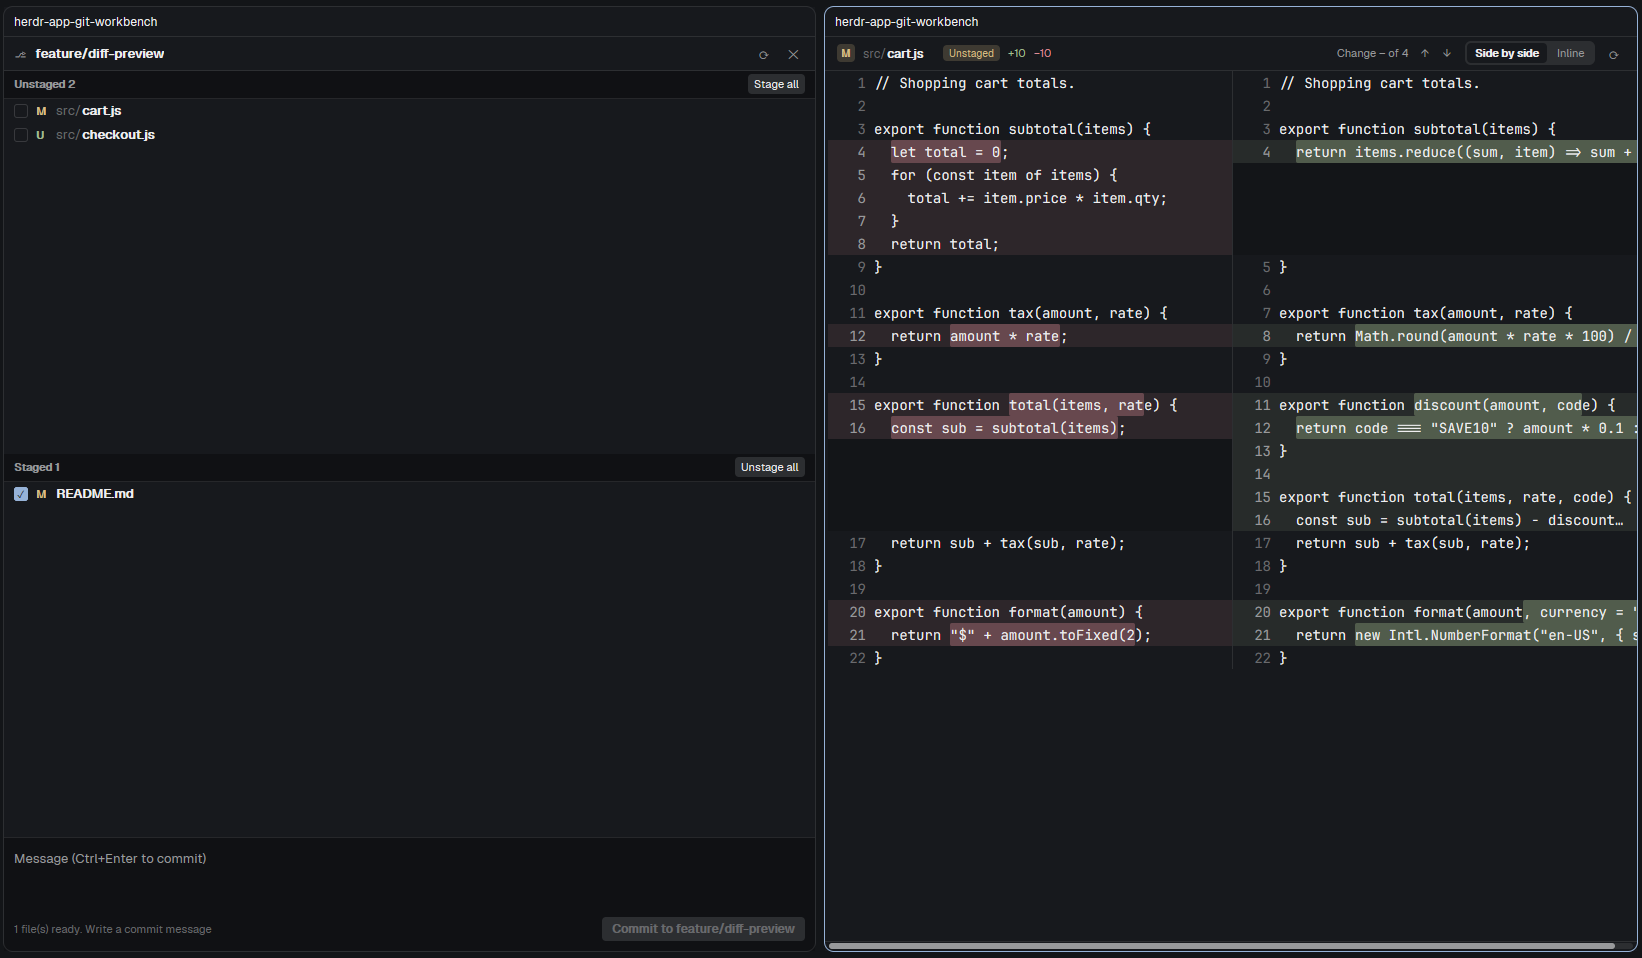
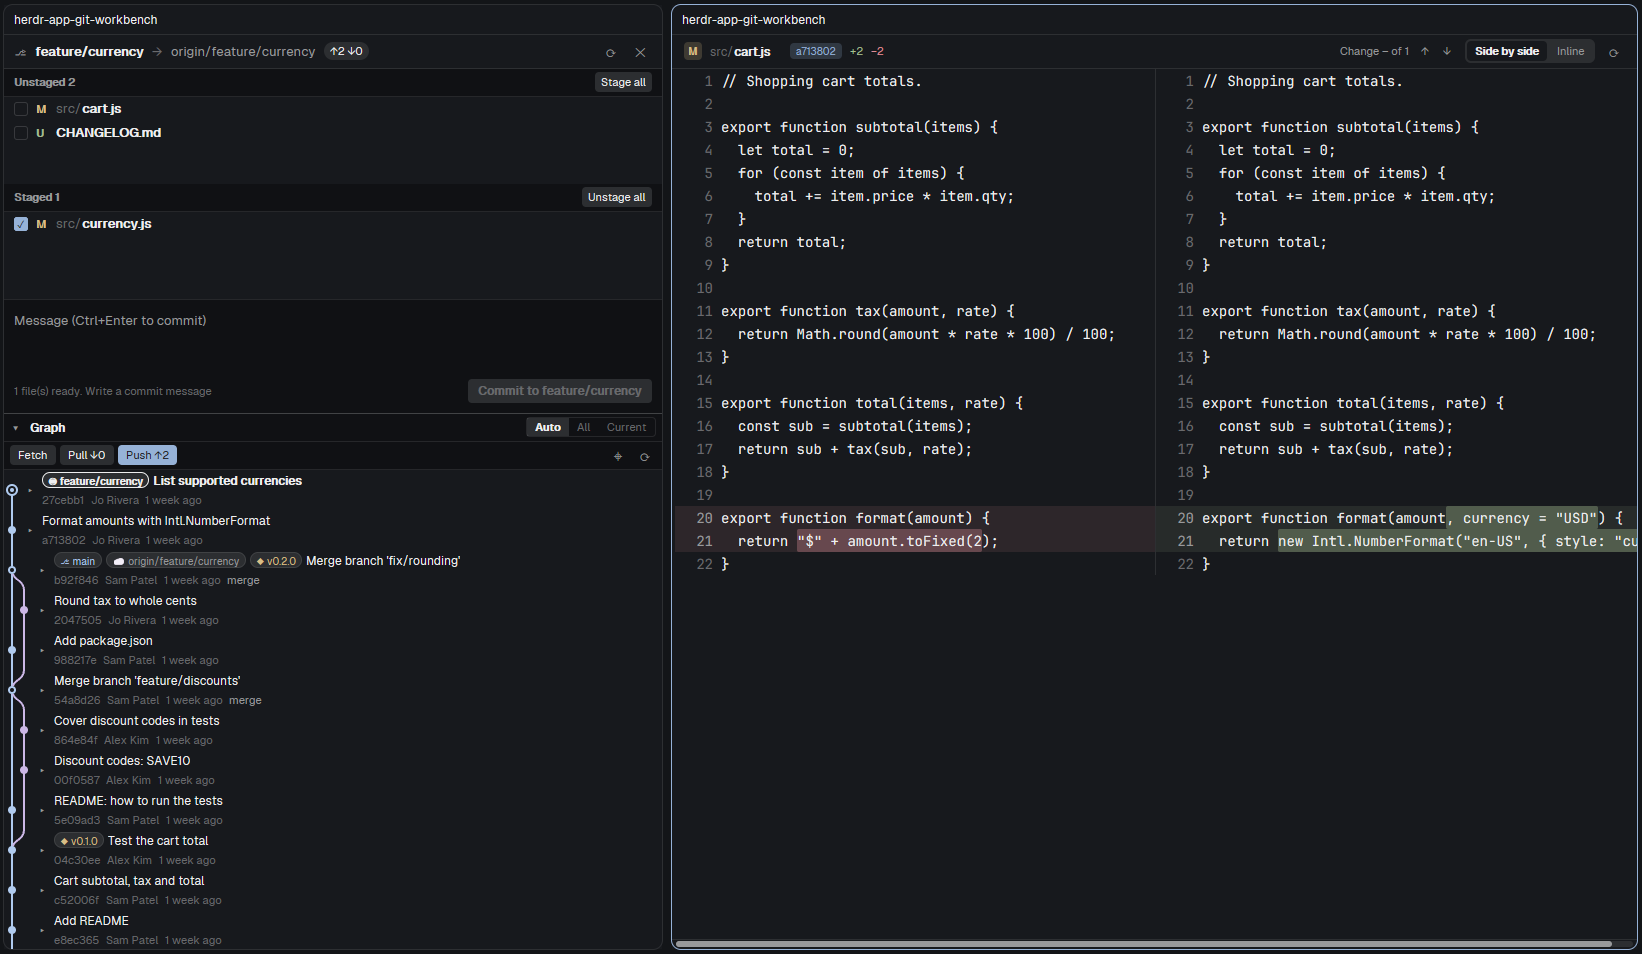
Update readme with installtion instructions and new preview image

diff --git a/README.md b/README.md
@@ -77,6 +77,37 @@ the message names the remote and suggests running the same command (for example
 
 ## Install
 
+### Quick start
+
+You need [Herdr Desktop](https://herdr.dev), Git, and Node 22 (only for the copy
+script; see below to install without Node).
+
+```sh
+git clone https://github.com/LeeSanderson/herdr-app-git-workbench.git
+cd herdr-app-git-workbench
+npm run sync
+herdr-app check ~/.config/herdr-app/mods/herdr-app-git-workbench
+```
+
+Then press `Ctrl+Shift+P` in Herdr and run **Git Workbench: Open Source Control
+beside this pane**.
+
+**Without Node:** download the repository (on GitHub, **Code → Download ZIP**),
+make the folder `~/.config/herdr-app/mods/herdr-app-git-workbench`
+(`%USERPROFILE%\.config\herdr-app\mods\herdr-app-git-workbench` on Windows), and
+copy `main.js`, `mod.json` and `src/` into it. You can leave out `src/adapters/`.
+
+**With Herdr's agent:** ask it to "add the Herdr mod from
+https://github.com/LeeSanderson/herdr-app-git-workbench". Its installed guide
+covers adding mods from GitHub; it copies the mod folder and runs `herdr-app check`.
+
+**Update:** `git pull`, then `npm run sync` again (or copy the files again).
+
+To give the panel a column of its own in your layout, or a key to show and hide
+it, follow the full steps below.
+
+### Full steps
+
 These steps work for a person or an agent. They keep your own layout and keys.
 Steps 2 and 3 change Herdr's state, so an agent asks before each one.
 
@@ -91,7 +122,8 @@ are read-only. Without them, open it as a pane (see the
 The mod folder is `~/.config/herdr-app/mods/herdr-app-git-workbench`. It must be a
 **real folder**: a directory junction or symlink breaks Herdr's hot reload.
 
-From a clone of this repository (needs Node 22):
+From a clone of this repository (needs Node 22; see
+[Quick start](#quick-start) to install without Node):
 
 ```sh
 npm run sync
